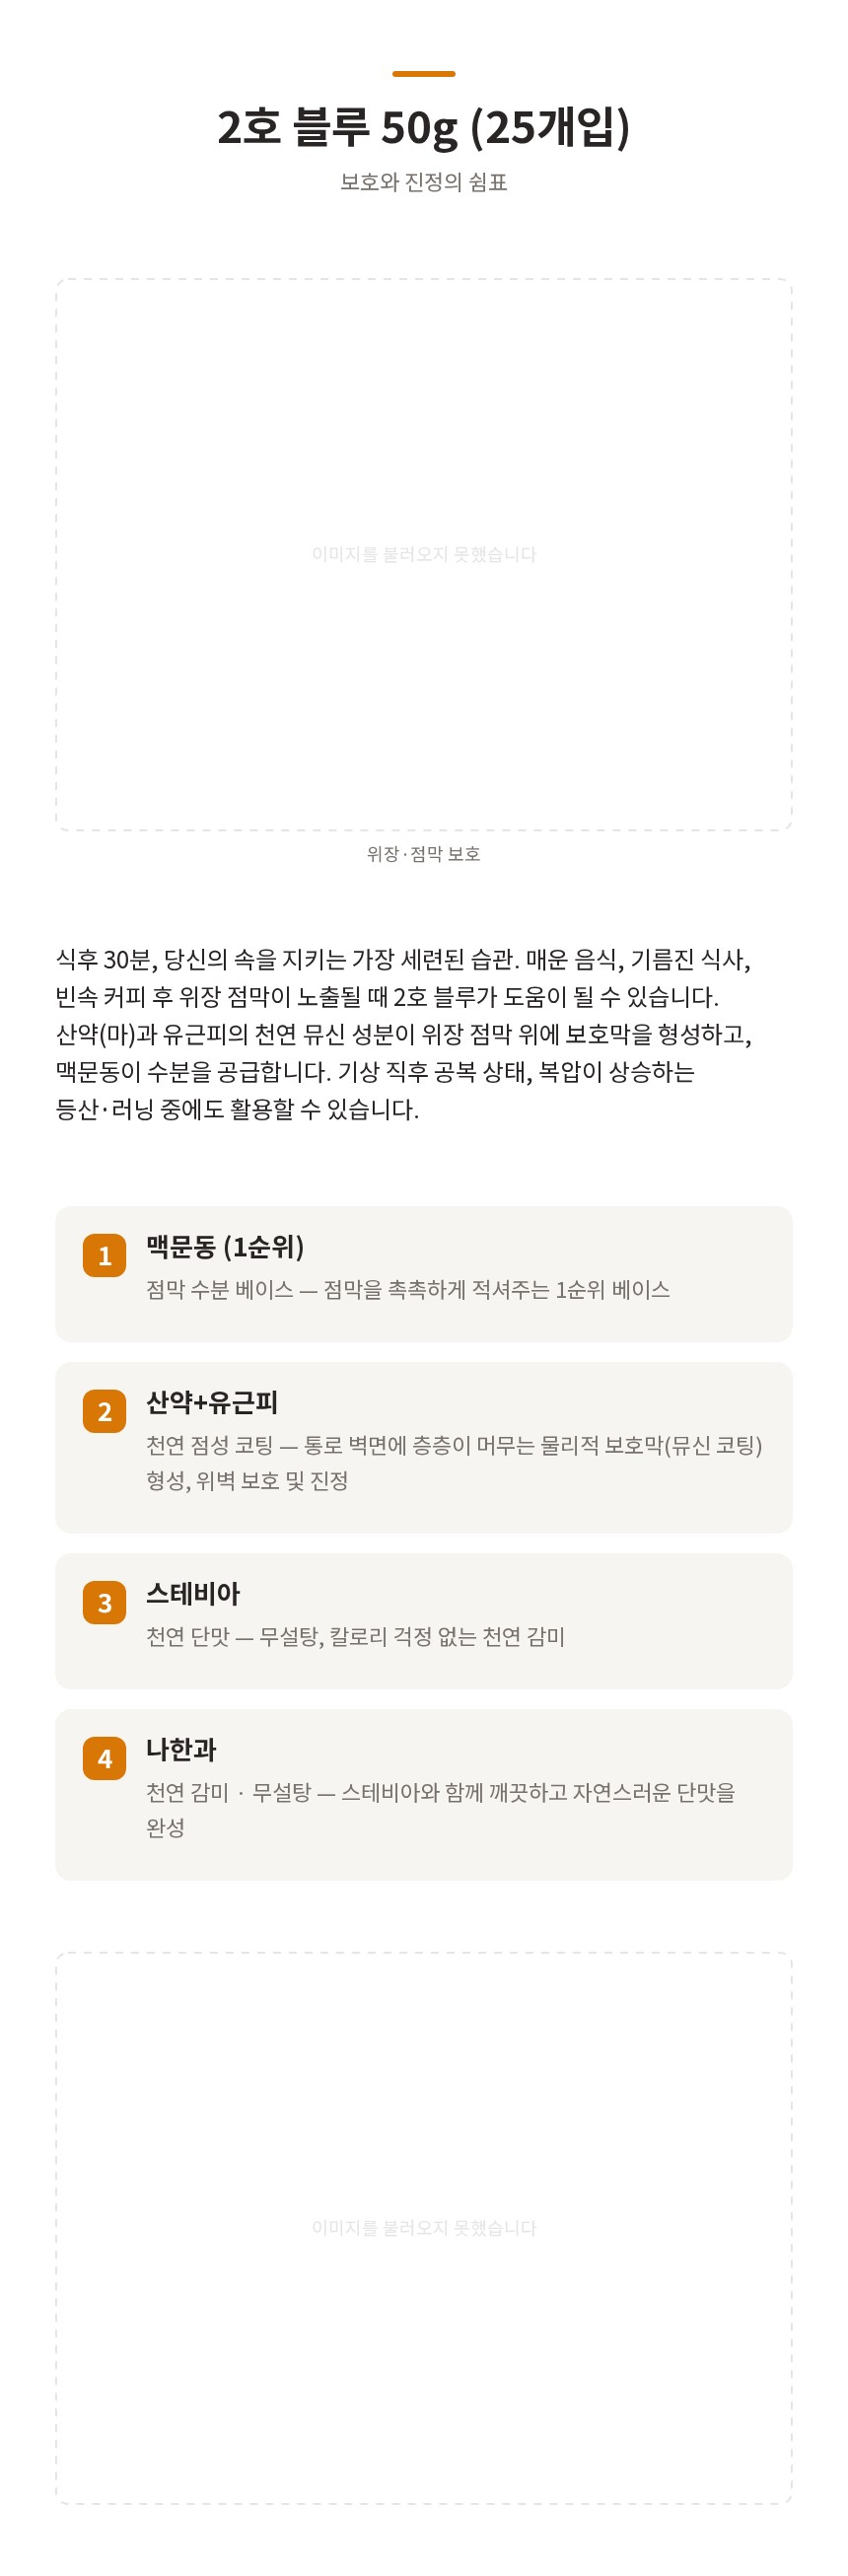
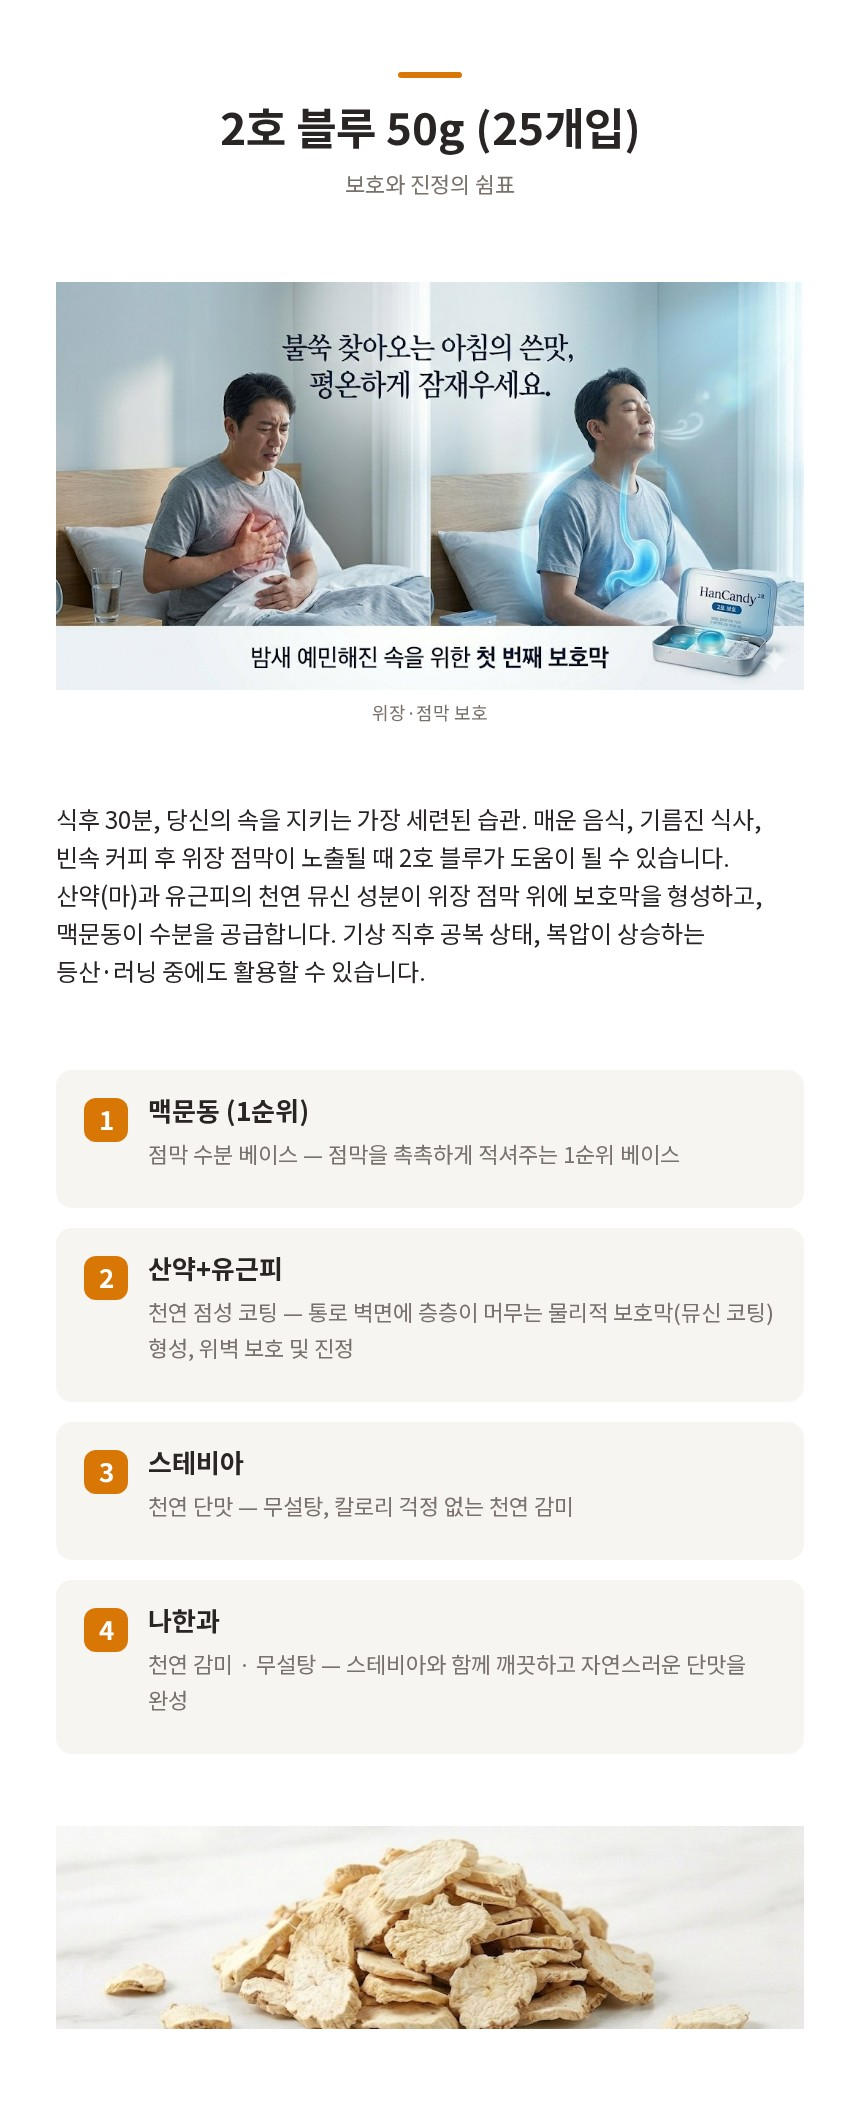
feat: AI 지점 ③④ 자리 + 리뷰 작성 UI
- lib/ai/memberAi.ts: 회원 API 키 가용성 단일 소스 — aiRefine/shopAiAssist가 이를
  읽으므로 키 연동 시 이 모듈만 교체하면 전 지점 버튼이 함께 활성화
- 지점 ③ 'AI 섹션 초안'(ProductContentTabs)·④ 'AI로 이미지 생성'(섹션 이미지
  선택기) 비활성 자리 + 인터페이스(suggestSections/aiImageGenerator)
- 리뷰 작성: 공개 API(active 상품만, rating 클램프) + ReviewForm(별점/이름/내용,
  등록 후 router.refresh로 집계 갱신)

diff --git a/src/components/shop/ReviewForm.tsx b/src/components/shop/ReviewForm.tsx
@@ -1,0 +1,104 @@
+'use client';
+
+// 리뷰 작성 폼 — 별점 선택 + 이름(선택) + 내용. 제출 성공 시 router.refresh()로
+// 서버 컴포넌트(ProductDetailView)의 목록/집계를 다시 그린다.
+
+import { useState } from 'react';
+import { useRouter } from 'next/navigation';
+import { Star, Loader2 } from 'lucide-react';
+import { clsx } from 'clsx';
+
+interface Props {
+  slug:      string;
+  productId: string;
+}
+
+export function ReviewForm({ slug, productId }: Props) {
+  const router = useRouter();
+  const [open, setOpen] = useState(false);
+  const [rating, setRating] = useState(5);
+  const [author, setAuthor] = useState('');
+  const [body, setBody] = useState('');
+  const [submitting, setSubmitting] = useState(false);
+  const [error, setError] = useState<string | null>(null);
+
+  async function handleSubmit() {
+    if (submitting) return;
+    setSubmitting(true);
+    setError(null);
+    const res = await fetch(`/api/shop/${slug}/products/${productId}/reviews`, {
+      method:  'POST',
+      headers: { 'Content-Type': 'application/json' },
+      body:    JSON.stringify({ rating, body, authorName: author }),
+    }).catch(() => null);
+    const data = await res?.json().catch(() => null);
+    if (res?.ok && data?.ok) {
+      setOpen(false);
+      setBody('');
+      router.refresh();
+    } else {
+      setError(data?.error ?? '리뷰 등록에 실패했습니다.');
+    }
+    setSubmitting(false);
+  }
+
+  if (!open) {
+    return (
+      <button
+        onClick={() => setOpen(true)}
+        className="self-start px-3 py-2 text-xs font-semibold rounded-xl border border-stone-200 text-stone-600 hover:border-amber-300 hover:text-amber-700 transition-colors"
+      >
+        상품평 남기기
+      </button>
+    );
+  }
+
+  return (
+    <div className="bg-stone-50 border border-stone-200 rounded-2xl p-4 flex flex-col gap-3">
+      <div className="flex items-center gap-1">
+        {[1, 2, 3, 4, 5].map((n) => (
+          <button key={n} onClick={() => setRating(n)} aria-label={`별점 ${n}점`}>
+            <Star
+              size={22}
+              className={clsx(
+                'transition-colors',
+                n <= rating ? 'fill-amber-400 text-amber-400' : 'fill-stone-200 text-stone-200 hover:fill-amber-200',
+              )}
+            />
+          </button>
+        ))}
+        <span className="text-xs text-stone-400 ml-1">{rating}점</span>
+      </div>
+      <input
+        value={author}
+        onChange={(e) => setAuthor(e.target.value)}
+        placeholder="이름 (선택)"
+        className="w-full text-sm border border-stone-200 rounded-xl px-3 py-2 bg-white focus:outline-none focus:ring-2 focus:ring-amber-300"
+      />
+      <textarea
+        value={body}
+        onChange={(e) => setBody(e.target.value)}
+        rows={3}
+        placeholder="상품은 어떠셨나요?"
+        className="w-full text-sm border border-stone-200 rounded-xl px-3 py-2 bg-white resize-y focus:outline-none focus:ring-2 focus:ring-amber-300"
+      />
+      {error && <p className="text-xs text-red-500 font-medium">{error}</p>}
+      <div className="flex items-center gap-2">
+        <button
+          onClick={handleSubmit}
+          disabled={submitting || !body.trim()}
+          className="flex items-center gap-1.5 px-4 py-2 text-xs font-bold rounded-xl bg-amber-600 hover:bg-amber-700 disabled:opacity-50 text-white transition-colors"
+        >
+          {submitting && <Loader2 size={13} className="animate-spin" />}
+          등록
+        </button>
+        <button
+          onClick={() => setOpen(false)}
+          className="px-3 py-2 text-xs font-semibold rounded-xl text-stone-400 hover:text-stone-600 transition-colors"
+        >
+          취소
+        </button>
+      </div>
+    </div>
+  );
+}

diff --git a/src/lib/ai/memberAi.ts b/src/lib/ai/memberAi.ts
@@ -1,0 +1,39 @@
+// 회원 본인 API 키(제미나이) 기반 AI 클라이언트 — 가용성의 단일 소스 (서버 모듈 import 없음).
+//
+// AIZET의 AI 어시스트는 전부 "회원 본인 키"로 호출한다는 원칙이 있고, 그 연동 여부를
+// 이 모듈 하나가 대표한다. 지점별 어시스트(aiRefine, shopAiAssist 등)는 available을
+// 여기서 읽으므로, 키 연동이 붙는 날 이 모듈만 실제 구현으로 바꾸면 모든 지점의
+// 버튼이 함께 살아난다.
+//
+// AI 원칙(절대 규칙): 모든 어시스트는 "제안(draft)"만 반환하고 DB에 직접 쓰지 않는다 —
+// 확정은 반드시 회원이 UI에서 한다. 이 원칙을 우회하는 자동 확정 경로를 만들지 말 것.
+
+export interface MemberAiStatus {
+  readonly available: boolean;
+  readonly unavailableReason?: string;
+}
+
+export const memberAi: MemberAiStatus = {
+  available: false,
+  unavailableReason: 'AI 어시스트는 회원 API 키(제미나이) 연동 후 제공됩니다',
+};
+
+// ── 지점 ④ 이미지 생성 — 인터페이스만(생성물은 파일 원장에 "후보"로 추가될 뿐,
+//    섹션/썸네일 연결은 회원이 한다) ─────────────────────────────────────────
+export interface AiImageRequest {
+  /** 생성 프롬프트의 재료 — 상품명/컨셉 등 */
+  prompt: string;
+  /** 생성 이미지를 등록할 파일 원장(주문) id */
+  orderId: string;
+}
+
+export interface AiImageGenerator extends MemberAiStatus {
+  generateImage(req: AiImageRequest): Promise<{ ledgerRef: string }>;
+}
+
+export const aiImageGenerator: AiImageGenerator = {
+  ...memberAi,
+  async generateImage(): Promise<{ ledgerRef: string }> {
+    throw new Error(memberAi.unavailableReason);
+  },
+};

diff --git a/src/app/api/shop/[slug]/products/[productId]/reviews/route.ts b/src/app/api/shop/[slug]/products/[productId]/reviews/route.ts
@@ -1,0 +1,34 @@
+// 구매자 리뷰 작성 API — 인증 없음(공개). 판매중(active) 상품에만 허용.
+// rating은 db 계층(addReview)에서 1~5로 클램프된다.
+
+import { NextRequest } from 'next/server';
+import { getUserBySlug } from '@/lib/users';
+import { getProduct, addReview } from '@/lib/db/products';
+
+export const dynamic = 'force-dynamic';
+
+export async function POST(
+  req: NextRequest,
+  { params }: { params: Promise<{ slug: string; productId: string }> },
+) {
+  const { slug, productId } = await params;
+  const seller = getUserBySlug(slug);
+  if (!seller) return Response.json({ error: '상점을 찾을 수 없습니다' }, { status: 404 });
+
+  const product = getProduct(productId);
+  if (!product || product.user_id !== seller.id || product.status !== 'active') {
+    return Response.json({ error: '상품을 찾을 수 없습니다' }, { status: 404 });
+  }
+
+  const body = await req.json().catch(() => ({}));
+  const rating = Number(body.rating);
+  const text   = typeof body.body === 'string' ? body.body.trim().slice(0, 2000) : '';
+  const author = typeof body.authorName === 'string' ? body.authorName.trim().slice(0, 40) : '';
+  if (!Number.isFinite(rating) || rating < 1 || rating > 5) {
+    return Response.json({ error: '별점(1~5)을 선택해 주세요' }, { status: 400 });
+  }
+  if (!text) return Response.json({ error: '리뷰 내용을 입력해 주세요' }, { status: 400 });
+
+  const review = addReview(productId, seller.id, rating, text, author || '구매자');
+  return Response.json({ ok: true, review });
+}

diff --git a/src/lib/super-editor/product/aiRefine.ts b/src/lib/super-editor/product/aiRefine.ts
@@ -2,8 +2,9 @@
 //
 // 실제 다듬기(제미나이 호출)는 회원 API 키 연동이 붙을 때 이 인터페이스의 구현체로 교체된다.
 // UI는 productAiRefiner.available만 보고 버튼 활성/비활성을 정하므로, 구현이 생겨도
-// UI 코드는 바뀌지 않는다 — 교체 지점은 아래 productAiRefiner 상수 하나뿐이다.
+// UI 코드는 바뀌지 않는다 — 가용성의 단일 소스는 lib/ai/memberAi.ts.
 
+import { memberAi } from '@/lib/ai/memberAi';
 import type { ProductSection } from './types';
 
 export interface AiRefineRequest {
@@ -19,18 +20,30 @@ export interface AiRefineResult {
   summary:  string;
 }
 
+export interface SuggestSectionsRequest {
+  /** 상품명/짧은 소개 — 섹션 구성 초안의 재료 */
+  title:       string;
+  description: string;
+}
+
 export interface ProductAiRefiner {
   /** false면 UI가 버튼을 비활성화하고 unavailableReason을 툴팁으로 보여준다 */
   readonly available: boolean;
   readonly unavailableReason?: string;
+  /** 지점 ② 카피 다듬기: 섹션 문구를 판매 카피로 */
   refine(req: AiRefineRequest): Promise<AiRefineResult>;
+  /** 지점 ③ 섹션 초안: 상품 정보 → 섹션 구성 제안(미리보기 후 회원이 "적용") */
+  suggestSections(req: SuggestSectionsRequest): Promise<AiRefineResult>;
 }
 
-/** 현재 구현 — 회원 API 키 연동 전이므로 항상 비활성. 연동 시 이 상수만 교체한다. */
+/** 현재 구현 — 회원 API 키 연동 전이므로 비활성(가용성은 memberAi 단일 소스). */
 export const productAiRefiner: ProductAiRefiner = {
-  available: false,
-  unavailableReason: 'AI 다듬기는 회원 API 키 연동 후 제공됩니다',
+  available: memberAi.available,
+  unavailableReason: memberAi.unavailableReason,
   async refine(): Promise<AiRefineResult> {
-    throw new Error('AI 다듬기는 회원 API 키 연동 후 제공됩니다');
+    throw new Error(memberAi.unavailableReason);
+  },
+  async suggestSections(): Promise<AiRefineResult> {
+    throw new Error(memberAi.unavailableReason);
   },
 };

diff --git a/src/components/super-editor/ProductSectionPanel.tsx b/src/components/super-editor/ProductSectionPanel.tsx
@@ -6,8 +6,9 @@
 
 import { useState } from 'react';
 import {
-  Heading1, Image as ImageIcon, AlignLeft, ListChecks, Trash2, ChevronUp, ChevronDown, Plus,
+  Heading1, Image as ImageIcon, AlignLeft, ListChecks, Trash2, ChevronUp, ChevronDown, Plus, Sparkles,
 } from 'lucide-react';
+import { aiImageGenerator } from '@/lib/ai/memberAi';
 import { clsx } from 'clsx';
 import type { FileEntry } from '@/lib/super-editor/ledger/types';
 import { useOrderedFileEntries } from '@/lib/super-editor/ledger/store';
@@ -107,10 +108,20 @@ export function ProductSectionPanel({ orderId, sections, onChange, locked = fals
       {/* 이미지 선택기 — 원장의 이미지 목록에서 클릭해 섹션에 연결 */}
       {pickerTarget && !locked && (
         <div className="p-3 rounded-2xl border border-amber-200 bg-amber-50/50 flex flex-col gap-2">
-          <p className="text-xs font-semibold text-stone-500">
-            {pickerTarget === 'new' ? '원장의 이미지에서 선택해 섹션 추가' : '섹션에 넣을 이미지 선택'}
-            <span className="font-normal text-stone-400"> — 파일이 없으면 먼저 "파일 관리"에서 올려주세요</span>
-          </p>
+          <div className="flex items-center justify-between gap-2">
+            <p className="text-xs font-semibold text-stone-500">
+              {pickerTarget === 'new' ? '원장의 이미지에서 선택해 섹션 추가' : '섹션에 넣을 이미지 선택'}
+              <span className="font-normal text-stone-400"> — 파일이 없으면 먼저 "파일 관리"에서 올려주세요</span>
+            </p>
+            {/* AI 이미지 생성 자리(지점 ④) — 생성물은 원장에 후보로 추가될 뿐, 연결은 회원이 */}
+            <button
+              disabled={!aiImageGenerator.available}
+              title={aiImageGenerator.available ? undefined : aiImageGenerator.unavailableReason}
+              className="flex items-center gap-1 px-2.5 py-1.5 text-[11px] font-semibold rounded-lg border border-stone-200 text-stone-500 disabled:opacity-50 shrink-0 transition-colors"
+            >
+              <Sparkles size={12} /> AI로 이미지 생성
+            </button>
+          </div>
           {imageEntries.length === 0 ? (
             <p className="text-xs text-stone-400 py-3 text-center">올려둔 이미지가 없습니다</p>
           ) : (

diff --git a/src/lib/shop/aiAssist.ts b/src/lib/shop/aiAssist.ts
@@ -2,8 +2,11 @@
 //
 // aiRefine.ts(제품상세)와 같은 패턴: UI는 available만 보고 버튼을 비활성화하므로
 // 회원 API 키(제미나이) 연동이 붙을 때 아래 상수 구현만 교체하면 된다.
+// 가용성의 단일 소스는 lib/ai/memberAi.ts.
 // AI 원칙(절대 규칙): 모든 어시스트는 "제안(draft)"만 반환한다 — 이 모듈의 어떤
 // 결과도 DB에 직접 쓰이지 않고, 반드시 회원이 입력칸에서 확인·수정 후 저장한다.
+
+import { memberAi } from '@/lib/ai/memberAi';
 
 export interface ProductDraftRequest {
   /** 원장에 올린 상품 사진의 표시 URL 목록 — 이미지 기반 제안의 입력 */
@@ -40,14 +43,14 @@ export interface ShopAiAssist {
   refineCopy(req: CopyRefineRequest): Promise<CopyRefineSuggestion>;
 }
 
-/** 현재 구현 — 회원 API 키 연동 전이므로 항상 비활성. 연동 시 이 상수만 교체한다. */
+/** 현재 구현 — 회원 API 키 연동 전이므로 비활성(가용성은 memberAi 단일 소스). */
 export const shopAiAssist: ShopAiAssist = {
-  available: false,
-  unavailableReason: 'AI 어시스트는 회원 API 키 연동 후 제공됩니다',
+  available: memberAi.available,
+  unavailableReason: memberAi.unavailableReason,
   async suggestProductDraft(): Promise<ProductDraftSuggestion> {
-    throw new Error('AI 어시스트는 회원 API 키 연동 후 제공됩니다');
+    throw new Error(memberAi.unavailableReason);
   },
   async refineCopy(): Promise<CopyRefineSuggestion> {
-    throw new Error('AI 어시스트는 회원 API 키 연동 후 제공됩니다');
+    throw new Error(memberAi.unavailableReason);
   },
 };

diff --git a/src/components/super-editor/ProductContentTabs.tsx b/src/components/super-editor/ProductContentTabs.tsx
@@ -124,7 +124,14 @@ export function ProductContentTabs({
             ))}
           </select>
 
-          {/* AI 다듬기 — 회원 API 키 연동 전까지 비활성(자리/인터페이스만) */}
+          {/* AI 어시스트 자리(지점 ②·③) — 회원 API 키 연동 전까지 비활성(인터페이스만) */}
+          <button
+            disabled={!productAiRefiner.available}
+            title={productAiRefiner.available ? undefined : productAiRefiner.unavailableReason}
+            className="flex items-center gap-1.5 px-3 py-2 text-xs font-semibold rounded-xl border border-stone-200 text-stone-600 disabled:opacity-50 transition-colors shrink-0"
+          >
+            <Sparkles size={14} /> AI 섹션 초안
+          </button>
           <button
             disabled={!productAiRefiner.available}
             title={productAiRefiner.available ? undefined : productAiRefiner.unavailableReason}

diff --git a/src/components/shop/ProductDetailView.tsx b/src/components/shop/ProductDetailView.tsx
@@ -9,6 +9,7 @@ import { discountRate, formatPrice } from '@/lib/shop/types';
 import { RatingStars } from './RatingStars';
 import { ShopHeader } from './ShopHeader';
 import { BuyBar } from './BuyBar';
+import { ReviewForm } from './ReviewForm';
 
 interface Props {
   slug:       string;
@@ -77,6 +78,7 @@ export async function ProductDetailView({ slug, productId, basePath, showHeader 
           <h2 className="text-sm font-bold text-stone-800">
             상품평 {reviews.length > 0 && <span className="text-stone-400 font-medium">({reviews.length.toLocaleString()})</span>}
           </h2>
+          <ReviewForm slug={slug} productId={product.id} />
           {reviews.length === 0 ? (
             <p className="text-sm text-stone-400 py-6 text-center">아직 상품평이 없습니다.</p>
           ) : (